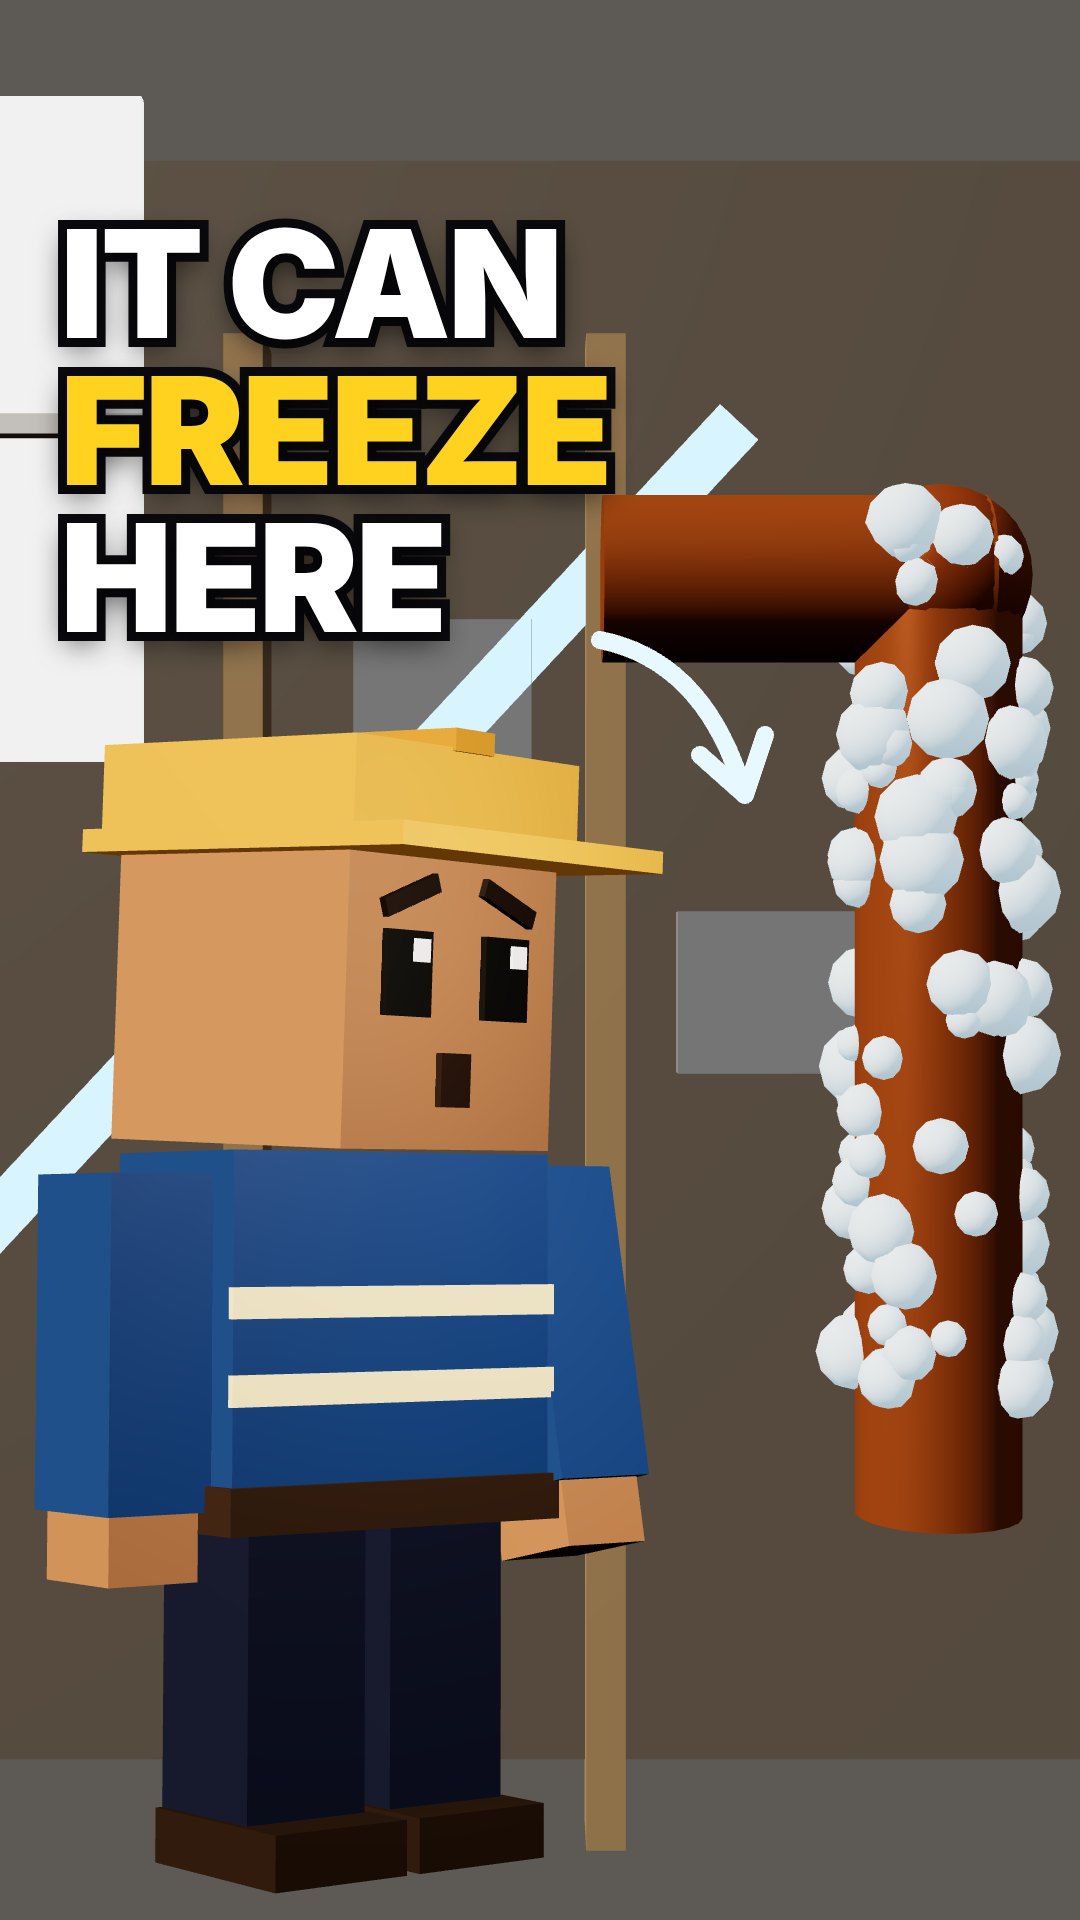
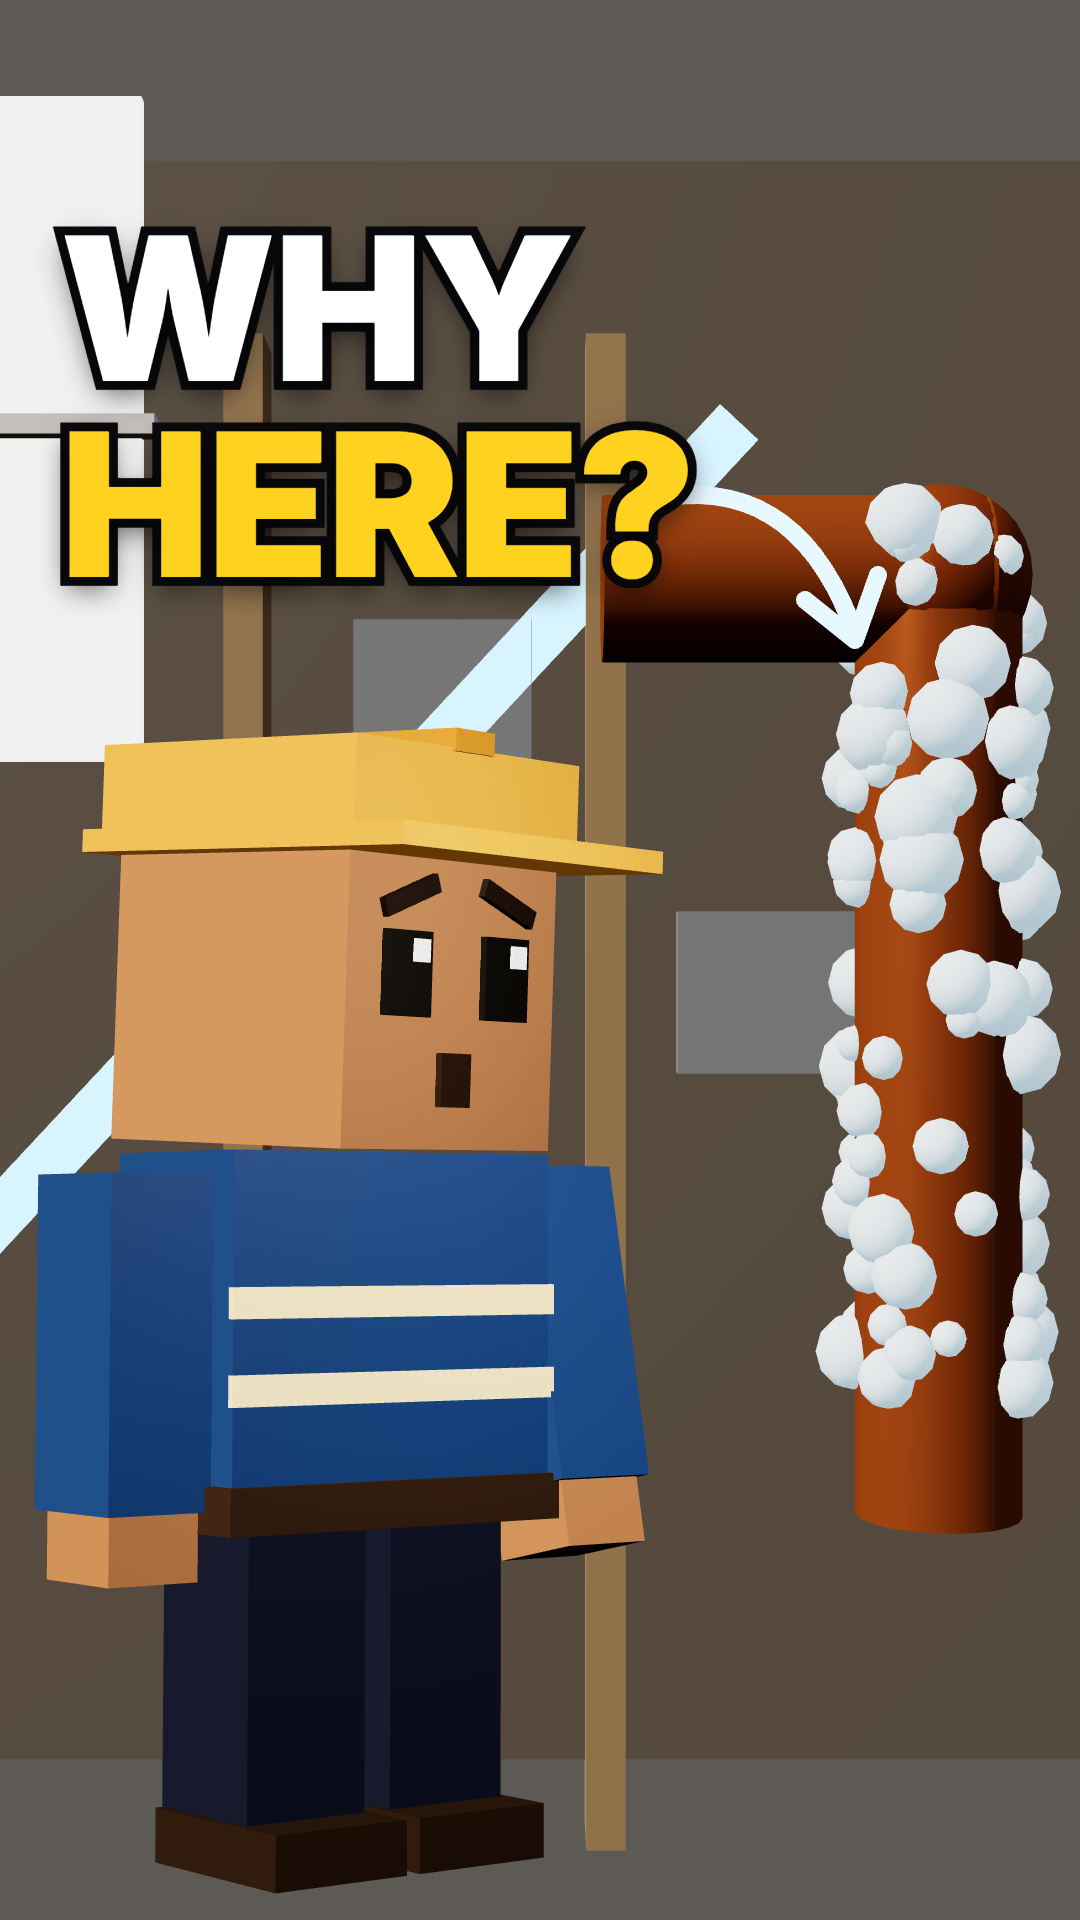
Thumb014: cover text WHY / HERE? with frost arrow from the ? to the pipe
Claude-Session: https://claude.ai/code/session_0194apvG89MkVJaQRZ5QBXLN

Changed region(s): [[0.0306, 0.0938, 0.825, 0.4375]]

diff --git a/shorts-studio/src/shorts2/Thumb014.tsx b/shorts-studio/src/shorts2/Thumb014.tsx
@@ -1,6 +1,6 @@
 // Cover for Short 014 (separate file, not frame 0): daylight kitchen cutaway — snow window (left), thin-insulation wall
 // with a frost line (middle), frosted copper pipe (right, the hero, >25% of frame); Lineman's face 3/4 lit by window daylight.
-// Text: "IT CAN FREEZE HERE" with FREEZE yellow, no box; frost-drawn arrow to the pipe.
+// Text: "WHY" white / "HERE?" yellow, no box; frost-drawn arrow from the "?" to the pipe.
 import React from 'react';
 import {AbsoluteFill} from 'remotion';
 import {ThreeCanvas} from '@remotion/three';
@@ -71,11 +71,11 @@ export const Thumb014: React.FC = () => (
     </AbsoluteFill>
     {/* frost-drawn arrow to the pipe */}
     <svg width={1080} height={1920} style={{position: 'absolute', inset: 0}}>
-      <path d="M 600 640 Q 700 660 740 780" stroke="#e8f8ff" strokeWidth={18} fill="none" strokeLinecap="round" />
-      <path d="M 700 755 L 745 795 L 765 735" stroke="#e8f8ff" strokeWidth={18} fill="none" strokeLinecap="round" strokeLinejoin="round" />
+      <path d="M 650 500 Q 790 470 850 620" stroke="#e8f8ff" strokeWidth={18} fill="none" strokeLinecap="round" />
+      <path d="M 805 600 L 855 640 L 878 575" stroke="#e8f8ff" strokeWidth={18} fill="none" strokeLinecap="round" strokeLinejoin="round" />
     </svg>
-    <div style={{position: 'absolute', top: 210, left: 60, right: 170, fontFamily: 'Inter, system-ui, sans-serif', fontWeight: 900, fontSize: 150, lineHeight: 0.98, letterSpacing: -3}}>
-      {[['IT CAN', '#ffffff'], ['FREEZE', '#ffd21f'], ['HERE', '#ffffff']].map(([w, c]) => (
+    <div style={{position: 'absolute', top: 210, left: 60, right: 170, fontFamily: 'Inter, system-ui, sans-serif', fontWeight: 900, fontSize: 200, lineHeight: 0.98, letterSpacing: -3}}>
+      {[['WHY', '#ffffff'], ['HERE?', '#ffd21f']].map(([w, c]) => (
         <div key={w} style={{color: c, WebkitTextStroke: '18px #0a0a0e', paintOrder: 'stroke fill', textShadow: '0 10px 30px rgba(0,0,0,0.7)'}}>{w}</div>
       ))}
     </div>
